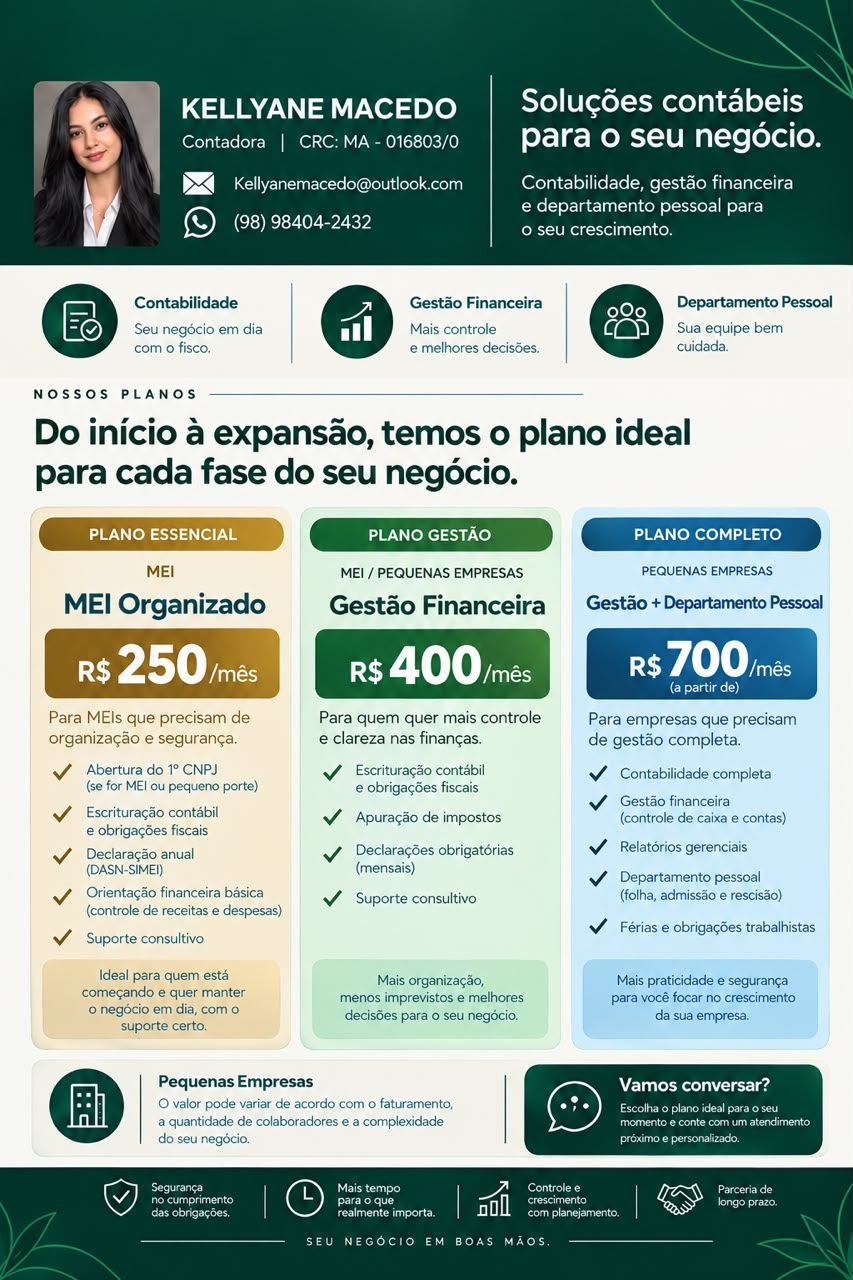
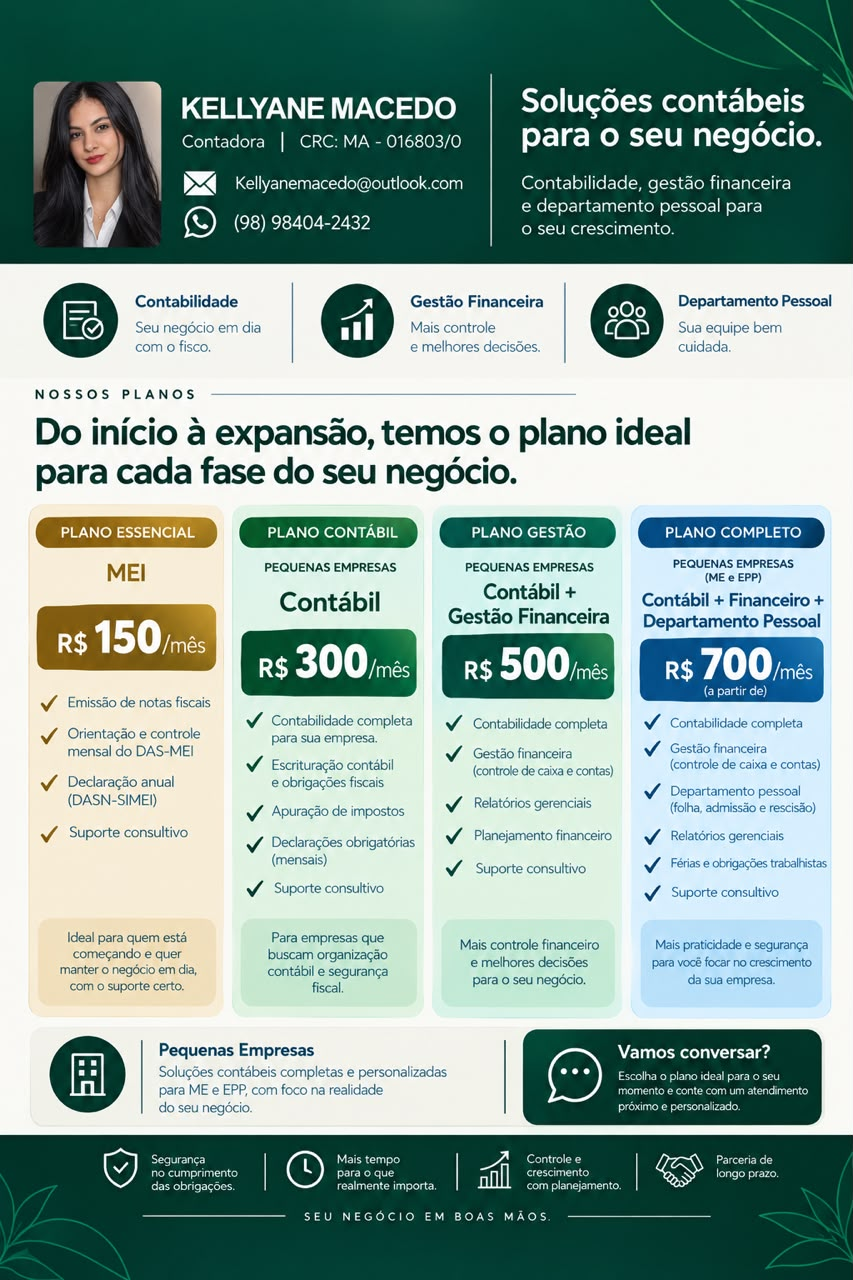
4

diff --git a/src/App.jsx b/src/App.jsx
@@ -33,45 +33,60 @@ const services = [
 
 const plans = [
   {
-    name: 'MEI organizado',
-    audience: 'Para quem está começando',
-    price: '250',
-    featured: false,
-    description: 'O essencial para manter seu MEI em dia e cuidar bem dos números.',
+    tier: 'Plano Essencial',
+    name: 'MEI',
+    audience: 'MEI',
+    price: '150',
+    description: 'Ideal para quem está começando e quer manter o negócio em dia, com o suporte certo.',
     features: [
-      'Abertura do primeiro CNPJ',
-      'Escrituração e obrigações fiscais',
+      'Emissão de notas fiscais',
+      'Orientação e controle mensal do DAS-MEI',
       'Declaração anual (DASN-SIMEI)',
-      'Orientação financeira básica',
       'Suporte consultivo',
     ],
   },
   {
-    name: 'Gestão financeira',
-    audience: 'MEI e pequenas empresas',
-    price: '400',
-    featured: true,
-    description: 'Mais clareza sobre as finanças para você decidir os próximos passos.',
+    tier: 'Plano Contábil',
+    name: 'Contábil',
+    audience: 'Pequenas empresas',
+    price: '300',
+    description: 'Para empresas que buscam organização contábil e segurança fiscal.',
     features: [
-      'Escrituração contábil e fiscal',
+      'Contabilidade completa para sua empresa',
+      'Escrituração contábil e obrigações fiscais',
       'Apuração de impostos',
-      'Declarações obrigatórias',
-      'Acompanhamento financeiro',
-      'Suporte próximo e consultivo',
+      'Declarações obrigatórias (mensais)',
+      'Suporte consultivo',
     ],
   },
   {
-    name: 'Gestão completa',
+    tier: 'Plano Gestão',
+    name: 'Contábil + Gestão Financeira',
     audience: 'Pequenas empresas',
-    price: '700',
-    featured: false,
-    description: 'Contabilidade, gestão e time de pessoal trabalhando em sintonia.',
+    price: '500',
+    description: 'Mais controle financeiro e melhores decisões para o seu negócio.',
     features: [
       'Contabilidade completa',
-      'Gestão financeira',
+      'Gestão financeira (controle de caixa e contas)',
       'Relatórios gerenciais',
-      'Departamento pessoal',
+      'Planejamento financeiro',
+      'Suporte consultivo',
+    ],
+  },
+  {
+    tier: 'Plano Completo',
+    name: 'Contábil + Financeiro + Departamento Pessoal',
+    audience: 'Pequenas empresas (ME e EPP)',
+    price: '700',
+    priceNote: 'a partir de',
+    description: 'Mais praticidade e segurança para você focar no crescimento da sua empresa.',
+    features: [
+      'Contabilidade completa',
+      'Gestão financeira (controle de caixa e contas)',
+      'Departamento pessoal (folha, admissão e rescisão)',
+      'Relatórios gerenciais',
       'Férias e obrigações trabalhistas',
+      'Suporte consultivo',
     ],
   },
 ];
@@ -279,19 +294,19 @@ function App() {
             <div className="section-heading plans-heading">
               <p className="eyebrow">NOSSOS PLANOS</p>
               <div className="heading-row">
-                <h2>O plano certo para<br /><em>o momento da sua empresa.</em></h2>
-                <p>Comece com o que você precisa hoje. Quando seu negócio evoluir, a gente cresce junto.</p>
+                <h2>Do início à expansão,<br /><em>o plano ideal para cada fase.</em></h2>
+                <p>Planos contábeis para acompanhar cada etapa do crescimento do seu negócio.</p>
               </div>
             </div>
             <div className="plans-grid">
               {plans.map((plan) => (
-                <article className={`plan-card${plan.featured ? ' plan-featured' : ''}`} key={plan.name}>
-                  {plan.featured && <span className="popular-label">MAIS ESCOLHIDO</span>}
+                <article className="plan-card" key={plan.name}>
+                  <span className="plan-tier">{plan.tier}</span>
                   <p className="plan-audience">{plan.audience}</p>
                   <h3>{plan.name}</h3>
                   <p className="plan-description">{plan.description}</p>
                   <div className="plan-price">
-                    <span>R$</span><strong>{plan.price}</strong>                    <small>{plan.price === '700' ? '/mês · a partir' : '/mês'}</small>
+                    <span>R$</span><strong>{plan.price}</strong><small>/mês{plan.priceNote ? ` · ${plan.priceNote}` : ''}</small>
                   </div>
                   <ul>
                     {plan.features.map((feature) => (
@@ -299,7 +314,7 @@ function App() {
                     ))}
                   </ul>
                   <a
-                    className={`button ${plan.featured ? 'button-gold' : 'button-outline'}`}
+                    className="button button-outline"
                     href={whatsappLink(`Olá, Kellyane! Tenho interesse no plano ${plan.name}. Pode me passar mais informações?`)}
                     target="_blank"
                     rel="noreferrer"

diff --git a/src/styles.css b/src/styles.css
@@ -572,7 +572,7 @@ h2 {
 
 .plans-grid {
   display: grid;
-  grid-template-columns: repeat(3, 1fr);
+  grid-template-columns: repeat(4, minmax(0, 1fr));
   align-items: stretch;
   gap: 15px;
 }
@@ -581,45 +581,42 @@ h2 {
   position: relative;
   display: flex;
   flex-direction: column;
-  min-height: 457px;
-  padding: 28px 26px 24px;
+  min-height: 520px;
+  padding: 24px 18px 22px;
   border: 1px solid rgba(255, 255, 255, 0.2);
   background: rgba(255, 255, 255, 0.045);
 }
 
-.plan-featured {
-  border-color: var(--gold);
-  background: rgba(255, 255, 255, 0.085);
-}
-
-.popular-label {
-  position: absolute;
-  top: -12px;
-  right: 20px;
-  padding: 6px 10px;
-  background: var(--gold);
-  color: var(--green);
-  font-size: 8px;
+.plan-tier {
+  align-self: flex-start;
+  margin-bottom: 17px;
+  padding: 6px 9px;
+  border: 1px solid rgba(255, 255, 255, 0.26);
+  color: var(--gold);
+  font-size: 9px;
   font-weight: 700;
-  letter-spacing: 1px;
+  letter-spacing: 0.8px;
+  text-transform: uppercase;
 }
 
 .plan-audience {
+  min-height: 30px;
   margin-bottom: 7px;
   color: #c5d1cb;
-  font-size: 10px;
+  font-size: 9px;
   letter-spacing: 1px;
   text-transform: uppercase;
 }
 
 .plan-card h3 {
+  min-height: 68px;
   margin-bottom: 8px;
-  font: 700 21px 'Manrope', sans-serif;
+  font: 700 19px 'Manrope', sans-serif;
   letter-spacing: -0.5px;
 }
 
 .plan-description {
-  min-height: 41px;
+  min-height: 76px;
   margin-bottom: 18px;
   color: #c5d1cb;
   font-size: 12px;
@@ -629,6 +626,7 @@ h2 {
 .plan-price {
   display: flex;
   align-items: baseline;
+  flex-wrap: wrap;
   gap: 4px;
   margin-bottom: 19px;
   color: var(--gold);
@@ -1060,6 +1058,10 @@ h2 {
 
   .service-card:nth-child(n + 3) {
     border-top: 1px solid var(--line);
+  }
+
+  .plans-grid {
+    grid-template-columns: repeat(2, minmax(0, 1fr));
   }
 
   .about-grid {
